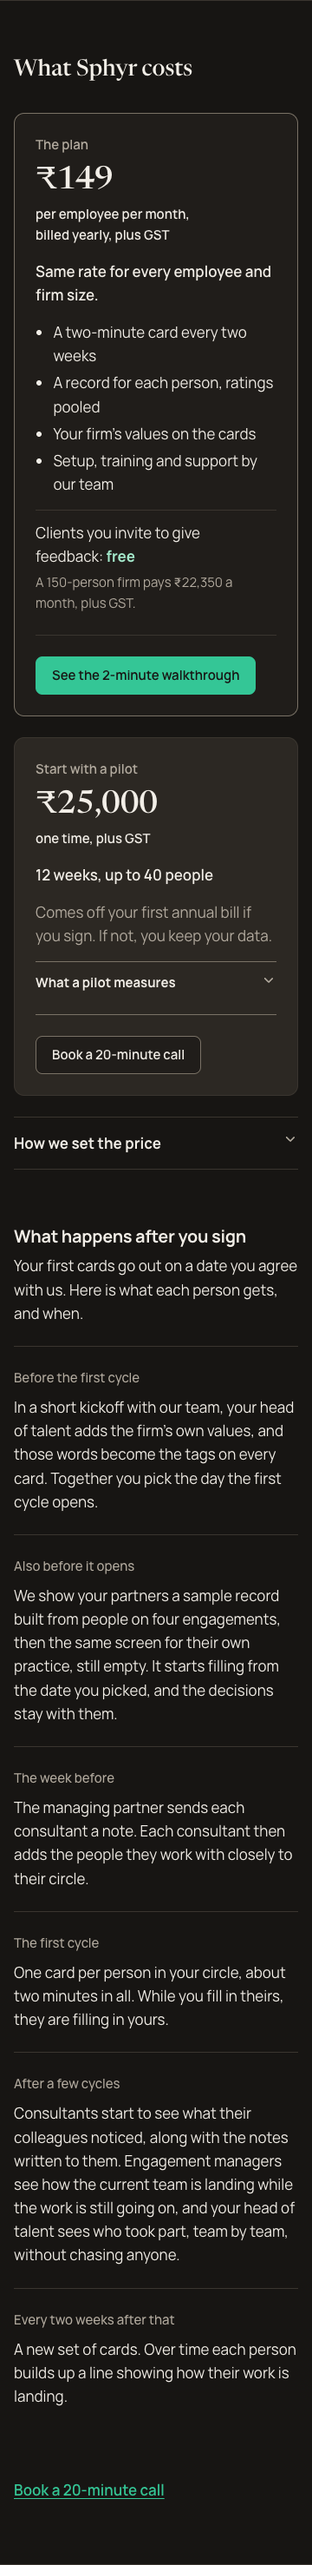
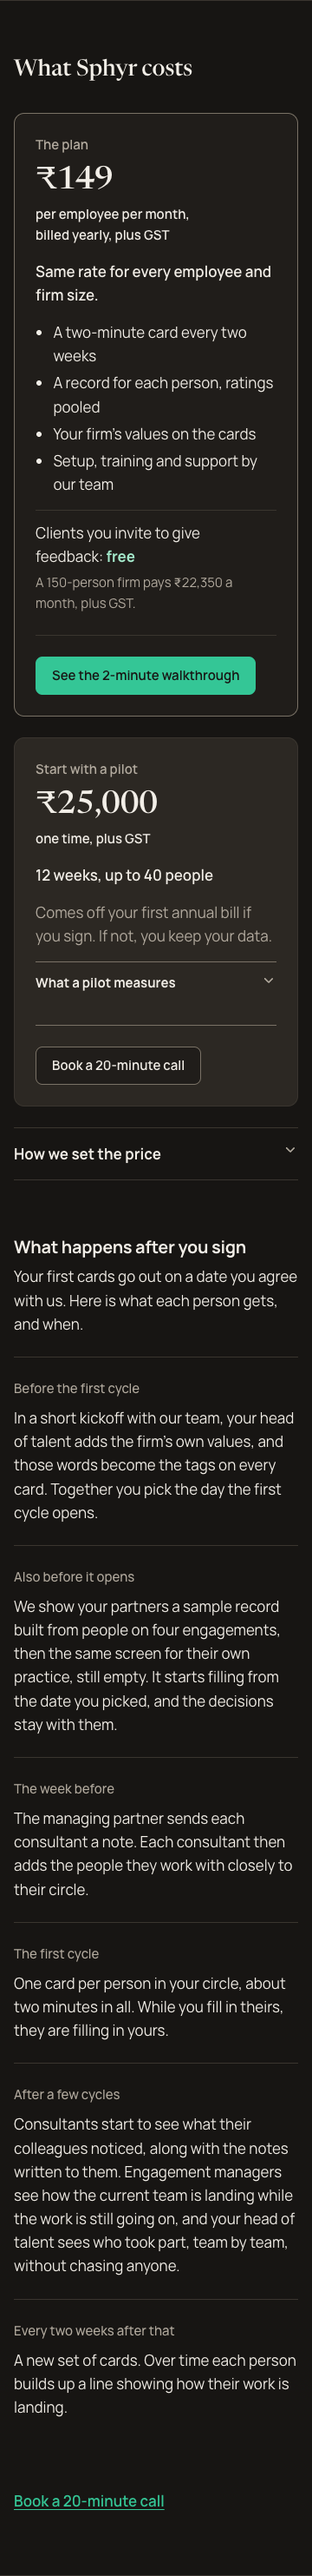
Fix pricing open states: restore list and toggle spacing, release shared rows while scorecard is open, centre closed toggle

diff --git a/site/css/home.css b/site/css/home.css
@@ -89,13 +89,19 @@
 .price-pair .plan .lower { border-top-color: var(--border); }
 /* The plan's four inclusions in two columns on wide screens, so its main row matches the pilot's terms. */
 @media (min-width: 1100px) { .plan .incl { columns: 2; column-gap: var(--s-6); font-size: var(--fs-small); } .plan .incl li { break-inside: avoid; } }
-.incl { margin: 0; padding-left: 1.2em; }
+.incl { margin: var(--s-3) 0 0; padding-left: 1.2em; }
 .incl li + li { margin-top: var(--s-1); }
 .price-pair p.free-line { color: var(--text); }
 .free-line b { color: var(--on-positive-soft); }
 .price-pair p.example { margin-top: var(--s-1); font-size: var(--fs-small); }
 .price-pair .act { margin-top: var(--s-5); padding-top: var(--s-5); border-top: 1px solid var(--border); }
 .price-pair .pilot .act { border-top-color: var(--border-strong); }
+/* While the pilot's scorecard is open, each card takes its own height, so the open list does not push a
+   void into the plan card. Closed, the shared rows return. */
+@media (min-width: 761px) {
+  .price-pair:has(.scorecard details[open]) { grid-template-rows: none; align-items: start; }
+  .price-pair:has(.scorecard details[open]) .term { grid-row: 1; grid-template-rows: none; }
+}
 @supports not (grid-template-rows: subgrid) {
   .price-pair .term { display: flex; flex-direction: column; }
   .price-pair .act { margin-top: auto; }
@@ -109,8 +115,10 @@
 .scorecard { font-size: var(--fs-small); }
 .scorecard details { border: 0; }
 .scorecard summary { padding: 0; }
-.scorecard details > div { padding-bottom: 0; }
-.scorecard details > div p { margin-top: var(--s-3); }
+.scorecard details > div { padding: var(--s-1) 0 0; }
+.price-pair .scorecard details p { margin-top: var(--s-3); }
+/* Closed, the toggle sits centred between the pilot's two hairlines, so the slack is above and below it. */
+.price-pair .pilot .lower { display: flex; flex-direction: column; justify-content: center; padding-bottom: var(--s-3); }
 /* Same width and edges as the cards; the answer keeps a reading measure. */
 .more { margin-top: var(--s-5); max-width: none; }
 .more details > div > * { max-width: var(--measure); }
